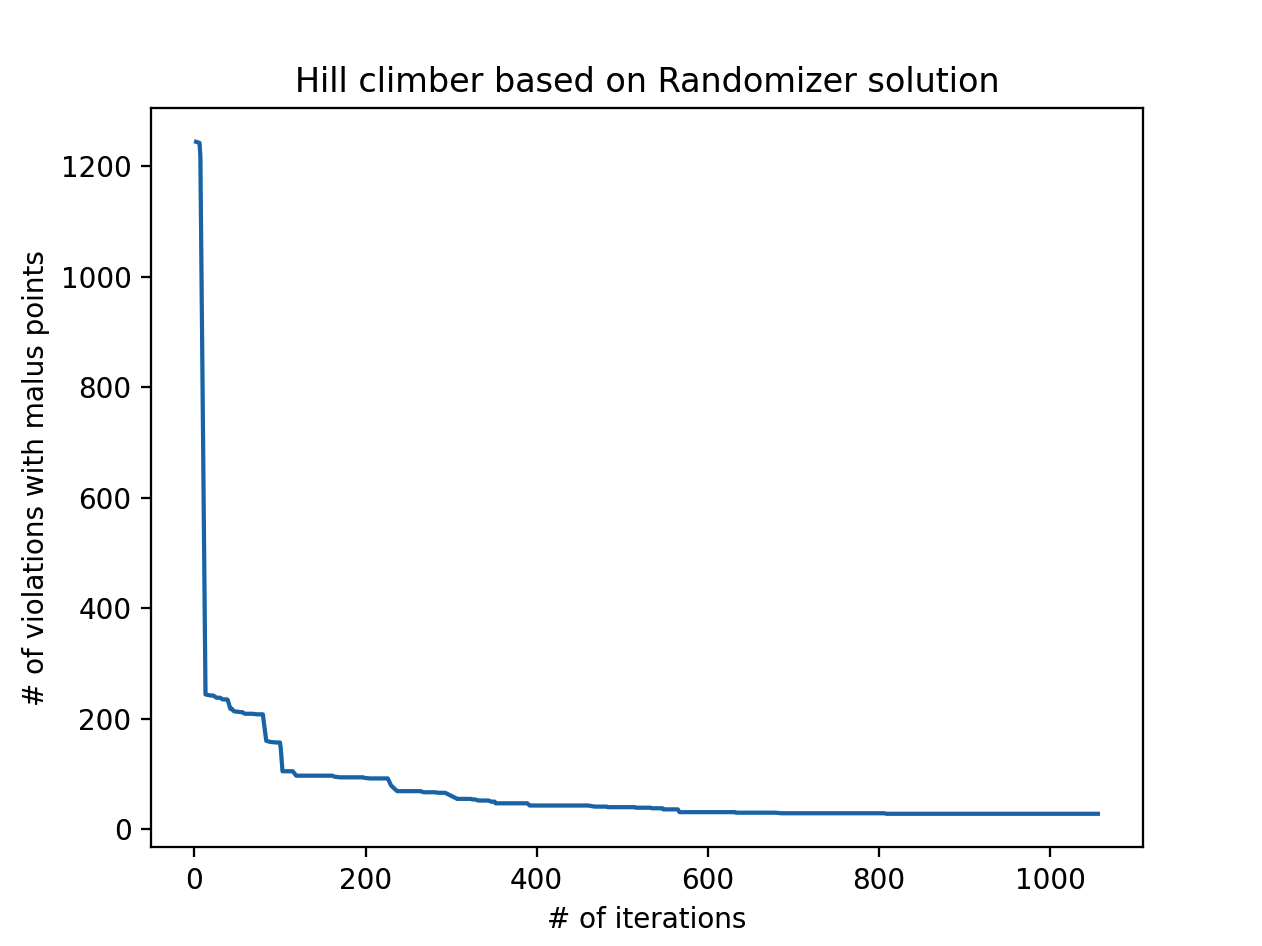
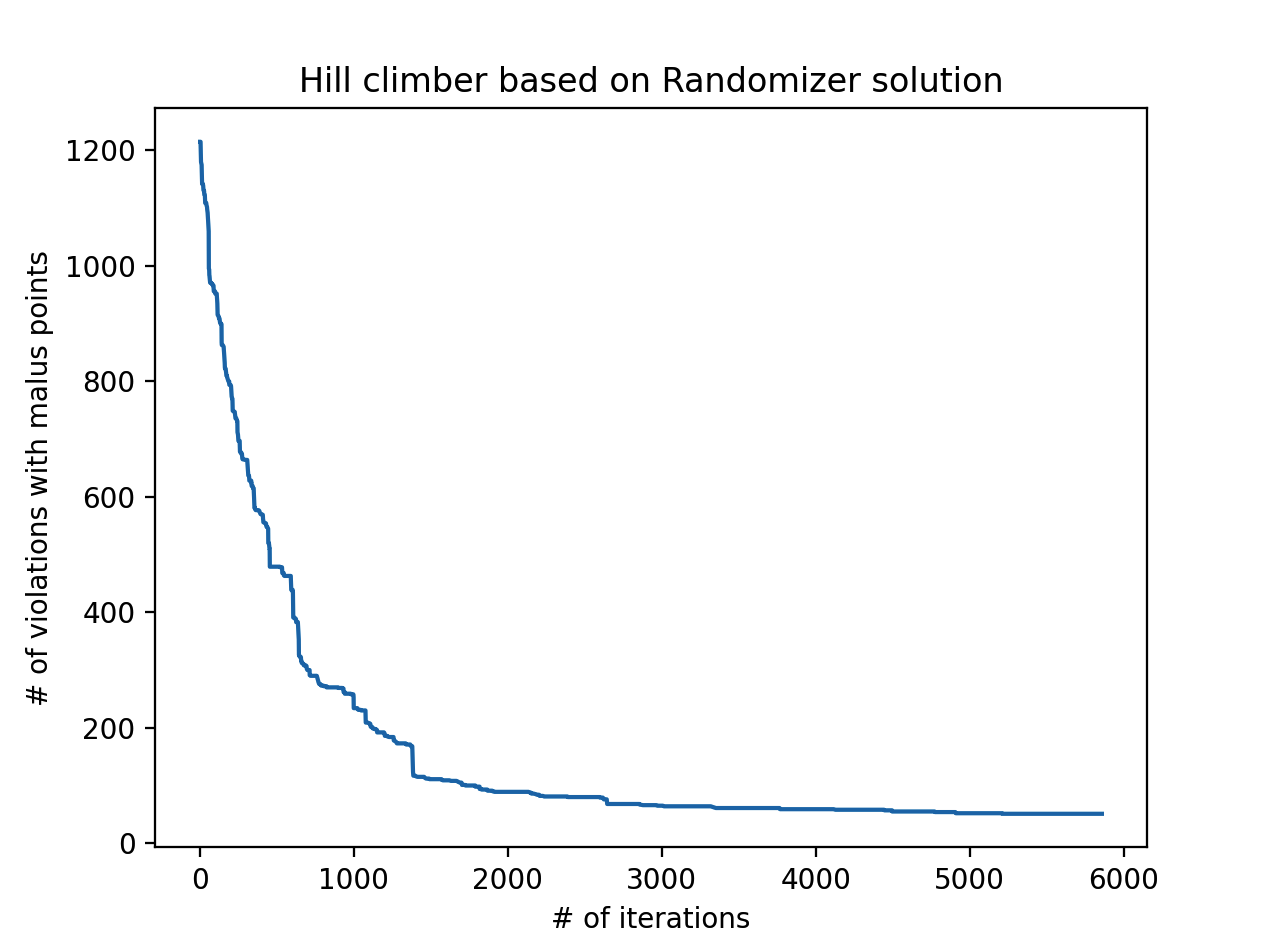
feat: optimise hill climber results

diff --git a/code/algorithms/hillclimber.py b/code/algorithms/hillclimber.py
@@ -30,16 +30,6 @@ class HillClimber(Greedy):
         room = random.choice(self.timetable.rooms)
         return Event(event.title, event.type, event.course, weekday, timeslot, room, event.students)
 
-    def move_random_event(self) -> None:
-        """
-        Move a single event to another random timeslot.
-        """
-        events = self.timetable.get_events()
-        event = random.choice(events)
-        self.timetable.remove_event(event)
-        similar_event = self.create_similar_event(event)
-        self.timetable.add_event(similar_event)
-
     def generate_state(self) -> None:
         """
         Run the parent algorithm in order to generate a solution.
@@ -65,6 +55,16 @@ class HillClimber(Greedy):
         plt.title(f'Hill climber based on {parent_class_name} solution')
         plt.show()
 
+    def move_random_event(self) -> None:
+        """
+        Move a single event to another random timeslot.
+        """
+        events = self.timetable.get_events()
+        event = random.choice(events)
+        similar_event = self.create_similar_event(event)
+        self.timetable.remove_event(event)
+        self.timetable.add_event(similar_event)
+
     def swap_two_random_events(self) -> None:
         """
         Swap two random events with each other.
@@ -72,7 +72,7 @@ class HillClimber(Greedy):
         events = self.timetable.get_events()
         event = events.pop(random.randrange(len(events)))
         other_event = events.pop(random.randrange(len(events)))
-        super().swap_two_events(event, other_event)
+        self.swap_two_events(event, other_event)
 
     def mutate_state(self) -> None:
         """
@@ -80,16 +80,16 @@ class HillClimber(Greedy):
 
         The actions are as follows:
         - 40% chance to move a single event
-        - 50% chance to swap two random events
-        - 10% to permute students
+        - 40% chance to swap two random events
+        - 20% to permute students within a random course
         """
         n = random.random()
-        if n < 0.4:
+        if n < 0.40:
             self.move_random_event()
-        elif 0.4 <= n < 0.9:
+        elif 0.40 <= n < 0.8:
             self.swap_two_random_events()
         else:
-            self.permute_students()
+            self.permute_students_for_random_course()
 
     def run(self, iterations=1) -> None:
         """
@@ -99,7 +99,7 @@ class HillClimber(Greedy):
         self.generate_state()
 
         # Stop if there is no improvement anymore after this amount of times.
-        no_improvement_limit = 200
+        no_improvement_limit = 500
 
         violations = len(self.timetable.get_violations())
         malus_score = self.timetable.calculate_malus_score()
@@ -118,37 +118,37 @@ class HillClimber(Greedy):
 
             self.mutate_state()
 
-            violations = len(self.timetable.get_violations())
-            malus_score = self.timetable.calculate_malus_score()
             prev_violations = len(prev_state.get_violations())
             prev_malus_score = prev_state.calculate_malus_score()
+            new_violations = len(self.timetable.get_violations())
+            new_malus_score = self.timetable.calculate_malus_score()
 
             # If it is a better solution or at least equally as good
             is_better_solution = (
-                violations < prev_violations or \
-                violations == prev_violations and malus_score <= prev_malus_score
+                new_violations < prev_violations or \
+                new_violations == prev_violations and new_malus_score <= prev_malus_score
             )
 
-            # This is needed simply for logging.
-            is_different_state = (
-                violations != prev_violations or \
-                violations == prev_violations and malus_score != prev_malus_score
+            is_different_score = (
+                new_violations != prev_violations or \
+                new_violations == prev_violations and new_malus_score != prev_malus_score
             )
 
+            # Equally good or even better solution.
             if is_better_solution:
-                if is_different_state:
+                if is_different_score:
                     no_improvement_counter = 0
-                    self.logger.info(f'Found better state with {violations} violations and {malus_score} malus score')
+                    self.logger.info(f'Found better state with {new_violations} violations and {new_malus_score} malus score')
                 else:
-                    self.logger.debug(f'Found similar state with {violations} violations and {malus_score} malus score')
+                    self.logger.debug(f'Found similar state with {new_violations} violations and {new_malus_score} malus score')
 
                 self.statistics.append({
                     'iteration': i + 1,
-                    'violations': violations,
-                    'malus_score': malus_score,
+                    'violations': new_violations,
+                    'malus_score': new_malus_score,
                 })
             else:
-                # It's a worse solution, reverse changes.
+                # Worse solution, reverse changes.
                 no_improvement_counter += 1
                 self.timetable = prev_state
 

diff --git a/code/algorithms/base.py b/code/algorithms/base.py
@@ -1,9 +1,11 @@
 import abc
 import copy
+import random
 from typing import Any
 
 from code.entities.event import Event
 from code.entities.timetable import Timetable
+from code.utils.enums import EventType
 from code.utils.helpers import split_list_random
 
 
@@ -21,57 +23,54 @@ class Algorithm(abc.ABC):
     @abc.abstractmethod
     def run(self, iterations: int) -> None:
         """
-        Run the algorithm for n-iteraations until a valid solution is found.
+        Run the algorithm for n-iterations until a valid solution is found.
         """
         pass
 
-    def permute_students(self):
+    def permute_students_for_random_course(self) -> None:
         """
-        Permute students within the scheduled events inside a course. Seminars
-        and practicals may contain 2 or more groups the students will be divided
-        over. Students will be permuted within these groups.
+        Seminars and practicals may contain 2 or more groups the students will
+        be divided over. Students will be permuted within either the seminar
+        groups or the practicals for a single random course.
+        """
+        course = random.choice(self.timetable.courses)
 
-        NOTE: Permuting for lectures doesn't make a difference, since it is
-        mandatory that all students attend this.
-        """
         # The key will be a course name with the event type, i.e. 'Database wc'.
         # The value is a list of scheduled events for that course type.
         #
         # Example:
         # {
-        #   'Databases hc': [Event()]
         #   'Databases wc': [Event(), Event(), Event()]
         #   'Databases pr': [Event(), Event()]
-        #   'Calculus 2 hc': [Event(), Event()]
-        #   'Calculus 2 wc': [Event(), Event()]
-        #   'Calculus 2 pr': [Event()]
         # }
         course_events: dict[str, list[Event]] = {}
 
         for day in self.timetable:
             for timeslot in day.values():
                 for event in timeslot:
-                    key = f'{event.course.name} {event.type}'
+                    if event.type not in course_events:
+                        course_events[event.type] = []
 
-                    if key not in course_events:
-                        course_events[key] = []
+                    if event.course == course and event.type != EventType.LECTURE:
+                        course_events[event.type].append(event)
 
-                    course_events[key].append(event)
+        # There might be seminars and practicals, so just choose one.
+        selected_type = random.choice(list(course_events.keys()))
+        events = course_events[selected_type]
 
-        for events in course_events.values():
-            # Only permute among the events if there are 2 or more.
-            if len(events) >= 2:
-                # Gather all students
-                students = [student for event in events for student in event.students]
+        # Only permute among the events if there are 2 or more.
+        if len(events) >= 2:
+            # Gather all students.
+            students = [student for event in events for student in event.students]
 
-                # Divide the students in groups
-                student_groups = split_list_random(students, len(events))
+            # Divide the students in groups.
+            student_groups = split_list_random(students, len(events))
 
-                # Assign the students to the events
-                for i, event in enumerate(events):
-                    event.assign_students(student_groups[i])
+            # Assign the students to the events.
+            for i, event in enumerate(events):
+                event.assign_students(student_groups[i])
 
-    def swap_two_events(self, event: Event, other_event: Event) -> None:
+    def swap_two_events(self, event: Event, other_event: Event) -> tuple[Event, Event]:
         """
         Swap two events with each other in the timetable.
         """
@@ -91,9 +90,12 @@ class Algorithm(abc.ABC):
         new_event.set_weekday(other_event.weekday)
         new_event.set_timeslot(other_event.timeslot)
 
-        other_event.set_room(event.room)
-        other_event.set_weekday(event.weekday)
-        other_event.set_timeslot(event.timeslot)
+        other_new_event = copy.deepcopy(other_event)
+        other_new_event.set_room(event.room)
+        other_new_event.set_weekday(event.weekday)
+        other_new_event.set_timeslot(event.timeslot)
 
         self.timetable.add_event(new_event)
-        self.timetable.add_event(other_event)
+        self.timetable.add_event(other_new_event)
+
+        return new_event, other_new_event

diff --git a/code/algorithms/randomizer.py b/code/algorithms/randomizer.py
@@ -90,53 +90,7 @@ class Randomizer(Algorithm):
         """
         other_events = [e for e in self.timetable.get_events() if e is not event]
         other_event = random.choice(other_events)
-        super().swap_two_events(event, other_event)
-
-    def permute_students(self):
-        """
-        Permute students within the scheduled events inside a course. Seminars
-        and practicals may contain 2 or more groups the students will be divided
-        over. Students will be permuted within these groups.
-
-        NOTE: Permuting for lectures doesn't make a difference, since it is
-        mandatory that all students attend this.
-        """
-        # The key will be a course name with the event type, i.e. 'Database wc'.
-        # The value is a list of scheduled events for that course type.
-        #
-        # Example:
-        # {
-        #   'Databases hc': [Event()]
-        #   'Databases wc': [Event(), Event(), Event()]
-        #   'Databases pr': [Event(), Event()]
-        #   'Calculus 2 hc': [Event(), Event()]
-        #   'Calculus 2 wc': [Event(), Event()]
-        #   'Calculus 2 pr': [Event()]
-        # }
-        course_events: dict[str, list[Event]] = {}
-
-        for day in self.timetable:
-            for timeslot in day.values():
-                for event in timeslot:
-                    key = f'{event.course.name} {event.type}'
-
-                    if key not in course_events:
-                        course_events[key] = []
-
-                    course_events[key].append(event)
-
-        for events in course_events.values():
-            # Only permute among the events if there are 2 or more.
-            if len(events) >= 2:
-                # Gather all students
-                students = [student for event in events for student in event.students]
-
-                # Divide the students in groups
-                student_groups = split_list_random(students, len(events))
-
-                # Assign the students to the events
-                for i, event in enumerate(events):
-                    event.assign_students(student_groups[i])
+        self.swap_two_events(event, other_event)
 
     def get_random_event(self) -> Event:
         """
@@ -225,7 +179,7 @@ class Randomizer(Algorithm):
         self.timetable = timetable_state
         timetable_state = copy.deepcopy(self.timetable)
         for _ in range(iterations - 1):
-            self.permute_students()
+            self.permute_students_for_random_course()
             malus_score = self.timetable.calculate_malus_score()
             malus_scores[1]['scores'].append(malus_score)
 
@@ -238,7 +192,7 @@ class Randomizer(Algorithm):
         for _ in range(iterations - 1):
             random_event = self.get_random_event()
             self.swap_with_random_event(random_event)
-            self.permute_students()
+            self.permute_students_for_random_course()
             malus_score = self.timetable.calculate_malus_score()
             malus_scores[2]['scores'].append(malus_score)
 

diff --git a/code/entities/event.py b/code/entities/event.py
@@ -38,6 +38,12 @@ class Event:
         """
         return self.timeslot < other.timeslot
 
+    def __eq__(self, other) -> bool:
+        """
+        Check if two events are of the same class type and have the same id.
+        """
+        return self.__class__ == other.__class__ and self.id == other.id
+
     def assign_students(self, students: list[Student]) -> None:
         """
         Assign new students to the event.

diff --git a/docs/4-hillclimber/README.md b/docs/4-hillclimber/README.md
@@ -5,8 +5,9 @@ of betere oplossingen accepteert. Dit algoritme gaat door tot dat het aantal
 opgegeven iteraties bereikt is, of als er na 200 iteraties geen strict betere
 oplossing is gevonden.
 
-:exclamation: Het moet hier *strict* beter zijn omdat het anders in een oneindige loop
-terecht komt waarbij het even goede states kan krijgen, maar nooit een betere.
+:exclamation: Het moet hier *strict* beter zijn omdat het anders in een
+oneindige loop terecht komt waarbij het even goede states kan krijgen, maar
+nooit een betere.
 
 In de baseline fase heb ik een random walk gemaakt die aantoont hoe de malus
 score wordt beïnvloedt door het omwisselen van twee random activiteiten of door
@@ -16,12 +17,13 @@ Hieronder nog een keer de grafiek van de random walk als opfrisser:
 
 ![random walk with 10k iterations](../2-baseline/random-walk-plot.png)
 
-Zoals te zien is heeft het verwisselen wel wat effect, maar niet veel. Het
-omwisselen van twee activiteiten heeft meer nut naar mate het aantal iteraties
-groter wordt. Ik heb dus bedacht om in de hill climber het volgende te doen:
+Zoals te zien is heeft het verwisselen wel wat effect, maar niet veel na een
+bepaald aantal iteraties. Het omwisselen van twee activiteiten heeft meer nut
+naar mate het aantal iteraties groter wordt. Ik heb dus bedacht om in de hill
+climber het volgende te doen:
 - 40% kans om een activiteit naar een random ander tijdslot te doen (in mogelijk een andere zaal)
-- 50% kans om twee activiteiten om te wisselen
-- 10% kans om studenten te verwisselen
+- 40% kans om twee activiteiten om te wisselen
+- 20% kans om studenten te verwisselen
 
 Bij hill climber beginnen we met "een oplossing". Ik heb zowel de randomizer als
 het greedy algoritme gebruikt algoritme voor mijn initiële oplossing. Omdat mijn
@@ -37,6 +39,6 @@ van violations en maluspunten minder en minder voor beide versies.
 
 ![hill climber based using randomizer solution](./hillclimber-randomizer.png)
 
-Over het algemeen gaat het met greedy beetje bij beetje naar beneden, omdat het
-altijd bij 120 maluspunten begint. Met de randomizer kan dit ook het geval zijn,
-maar als het begint met een hoog aantal maluspunten, dan zal het erg snel dalen.
+De greedy versie begon met een malus score van 118 en eindigde met 35 en de
+randomizer versie begon met 1274 en eindigde met 51 waarbij beide versies
+uiteindelijk het local optimum hadden bereikt.

diff --git a/docs/2-baseline/README.md b/docs/2-baseline/README.md
@@ -92,13 +92,23 @@ maluspunten om te zien hoe het aantal maluspunten wordt beïnvloed door deze
 aanpassingen.
 
 Zoals in de onderstaande grafieken te zien is heeft het wisselen van studenten
-(students permuting) redelijk slechte invloed op de malus score. Het gaat even
-flink naar beneden, wat positief is, maar daar blijft het bij. Waarschijnlijk
-was de gegenereerde oplossing erg slecht verdeeld qua studenten, waardoor een
-permutatie dit flink naar beneden heeft gehaald.
+(students permuting) redelijke invloed tot 4000 iteraties en dan zweeft het om
+een bepaald aantal maluspunten heen. Waarschijnlijk was de gegenereerde
+oplossing erg slecht verdeeld qua studenten, waardoor een paar permutatie dit
+flink naar beneden heeft gehaald.
 
 Het omwisselen van twee random activiteiten (event swapping) geeft meer speling
-in de malus score waarbij het varieert van 900+ tot wel 1400+.
+in de malus score waarbij het varieert van 800+ tot wel 1400+.
+
+Bij grafiek 1 en 2 is het laagste aantal maluspunten 800+, maar als we kijken
+naar de combinatie van beide dan zien we dat het aantal zelfs de 400+ behaald.
+In grafiek 1 stijgt het soms zelfs uit boven de initiële aantal maluspunten. In
+grafiek 2 zien we dit totaal niet, maar in grafiek 3 zien we dat de combinatie
+van beide helpt om het aantal maluspunten nóg lager maakt en ook alleen maar
+lager en lager blijft gaan.
+
+Het lijkt er dus op dat de combinatie van beide positieve invloed kan hebben om
+het aantal maluspunten te verlagen.
 
 ![random walk with 10k iterations](./random-walk-plot.png)
 
